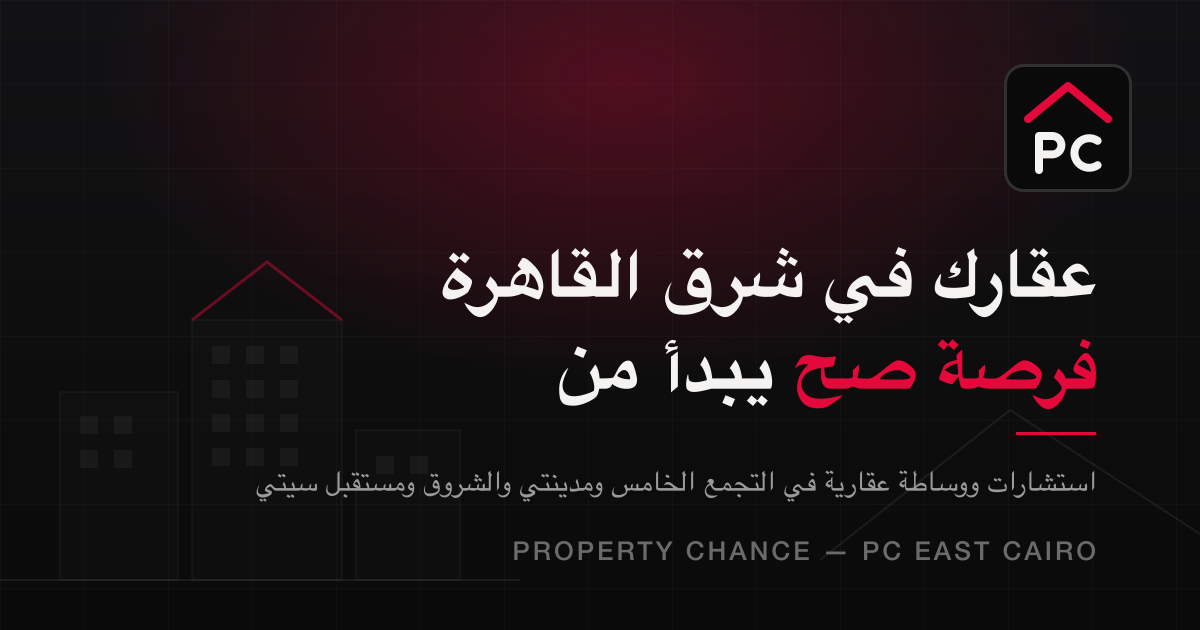
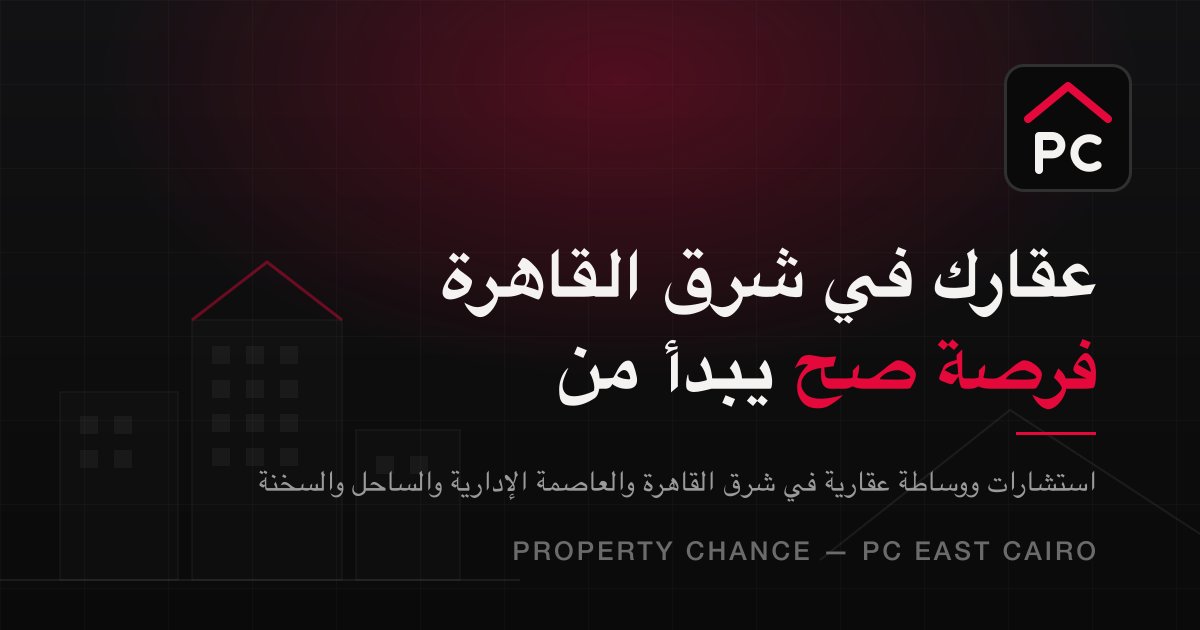
Update coverage areas: drop Madinaty, add New Capital, North Coast and Ain Sokhna
Also adjusts the hero tags, about copy, coverage heading, geographic-focus
card, stat count, metadata keywords and OG image so the resort destinations
no longer contradict the East Cairo-only wording.

Changed region(s): [[0.2158, 0.754, 0.6475, 0.8143]]

diff --git a/src/content/site.ts b/src/content/site.ts
@@ -19,17 +19,17 @@ export const site = {
     titleBottom: "يبدأ من",
     accent: "فرصة صح",
     sub: "Property Chance تقدّم استشارات ووساطة عقارية متخصصة في شرق القاهرة، من اختيار الوحدة المناسبة إلى إتمام الصفقة بثقة وشفافية.",
-    tags: ["التجمع الخامس", "مدينتي", "الشروق", "مستقبل سيتي", "الرحاب"],
+    tags: ["التجمع الخامس", "العاصمة الإدارية", "الشروق", "الساحل الشمالي", "العين السخنة"],
   },
   about: {
     kicker: "من نحن",
     title: "Property Chance، بيت خبرة في عقارات شرق القاهرة",
     body: [
-      "نحن فريق متخصص في الاستشارات العقارية والوساطة، نعمل تحت الاسم التجاري PC - East Cairo، ونركّز جهودنا على مناطق شرق القاهرة الحيوية: القاهرة الجديدة، التجمع الخامس، مدينتي، الشروق ومستقبل سيتي.",
+      "نحن فريق متخصص في الاستشارات العقارية والوساطة، نعمل تحت الاسم التجاري PC - East Cairo، ونركّز جهودنا على مناطق شرق القاهرة الحيوية: القاهرة الجديدة، التجمع الخامس، العاصمة الإدارية، الشروق ومستقبل سيتي، بالإضافة إلى وجهات المصايف في الساحل الشمالي والعين السخنة.",
       "هدفنا أن يحصل كل عميل على قرار عقاري مبني على بيانات وأسعار حقيقية للسوق، بعيدًا عن المبالغات، سواء كان الهدف سكن، استثمار، أو إعادة بيع.",
     ],
     stats: [
-      { value: 5, prefix: "+", suffix: "", label: "مناطق تغطية رئيسية في شرق القاهرة" },
+      { value: 10, prefix: "", suffix: "", label: "مناطق تغطية في شرق القاهرة والساحل والسخنة" },
       { value: 100, prefix: "", suffix: "%", label: "شفافية في الأسعار وحالة الوحدات" },
       { value: null, display: "1:1", label: "متابعة شخصية لكل عميل حتى إتمام الصفقة" },
     ] as Stat[],
@@ -65,18 +65,19 @@ export const site = {
   },
   coverage: {
     kicker: "مناطق التغطية",
-    title: "نعرف شرق القاهرة عن قرب",
-    sub: "تركيزنا الجغرافي يعني معرفة أعمق بالأسعار والمشاريع في كل منطقة.",
+    title: "نعرف مناطقنا عن قرب",
+    sub: "شرق القاهرة هو قلب عملنا، ومعه وجهات المصايف في الساحل الشمالي والعين السخنة. تركيزنا الجغرافي يعني معرفة أعمق بالأسعار والمشاريع في كل منطقة.",
     areas: [
-      "القاهرة الجديدة", "التجمع الخامس", "مدينتي", "الشروق",
+      "القاهرة الجديدة", "التجمع الخامس", "العاصمة الإدارية", "الشروق",
       "الرحاب", "مستقبل سيتي", "بدر", "العبور",
+      "الساحل الشمالي", "العين السخنة",
     ],
   },
   why: {
     kicker: "ليه Property Chance",
     title: "فرصة صح، مش مجرد اسم",
     cards: [
-      { title: "تخصص جغرافي", body: "نعمل فقط في شرق القاهرة، فمعرفتنا بالأسعار والمشاريع أدق من أي مكتب عام." },
+      { title: "تخصص جغرافي", body: "شرق القاهرة ووجهات الساحل والسخنة فقط، فمعرفتنا بالأسعار والمشاريع أدق من أي مكتب عام." },
       { title: "شفافية كاملة", body: "لا عمولات أو شروط مخفية، كل تفاصيل الصفقة توضح لك قبل الالتزام." },
       { title: "متابعة حتى النهاية", body: "لا نتوقف عند التوقيع، بل نتابع معك حتى استلام الوحدة فعليًا." },
     ],

diff --git a/src/app/layout.tsx b/src/app/layout.tsx
@@ -18,7 +18,7 @@ const oswald = Oswald({
 });
 
 const description =
-  "استشارات ووساطة عقارية في شرق القاهرة: التجمع الخامس، مدينتي، الشروق، الرحاب ومستقبل سيتي. أسعار حقيقية، شفافية كاملة، ومتابعة حتى استلام وحدتك.";
+  "استشارات ووساطة عقارية في شرق القاهرة والعاصمة الإدارية والساحل الشمالي والعين السخنة. أسعار حقيقية، شفافية كاملة، ومتابعة حتى استلام وحدتك.";
 
 const socialDescription =
   "Property Chance — فريق متخصص في عقارات شرق القاهرة. نساعدك تختار الوحدة الصح بسعر السوق الحقيقي، ونتابع معك حتى التسليم.";
@@ -33,7 +33,9 @@ export const metadata: Metadata = {
   keywords: [
     "عقارات شرق القاهرة",
     "التجمع الخامس",
-    "مدينتي",
+    "العاصمة الإدارية",
+    "الساحل الشمالي",
+    "العين السخنة",
     "الشروق",
     "مستقبل سيتي",
     "وساطة عقارية",
